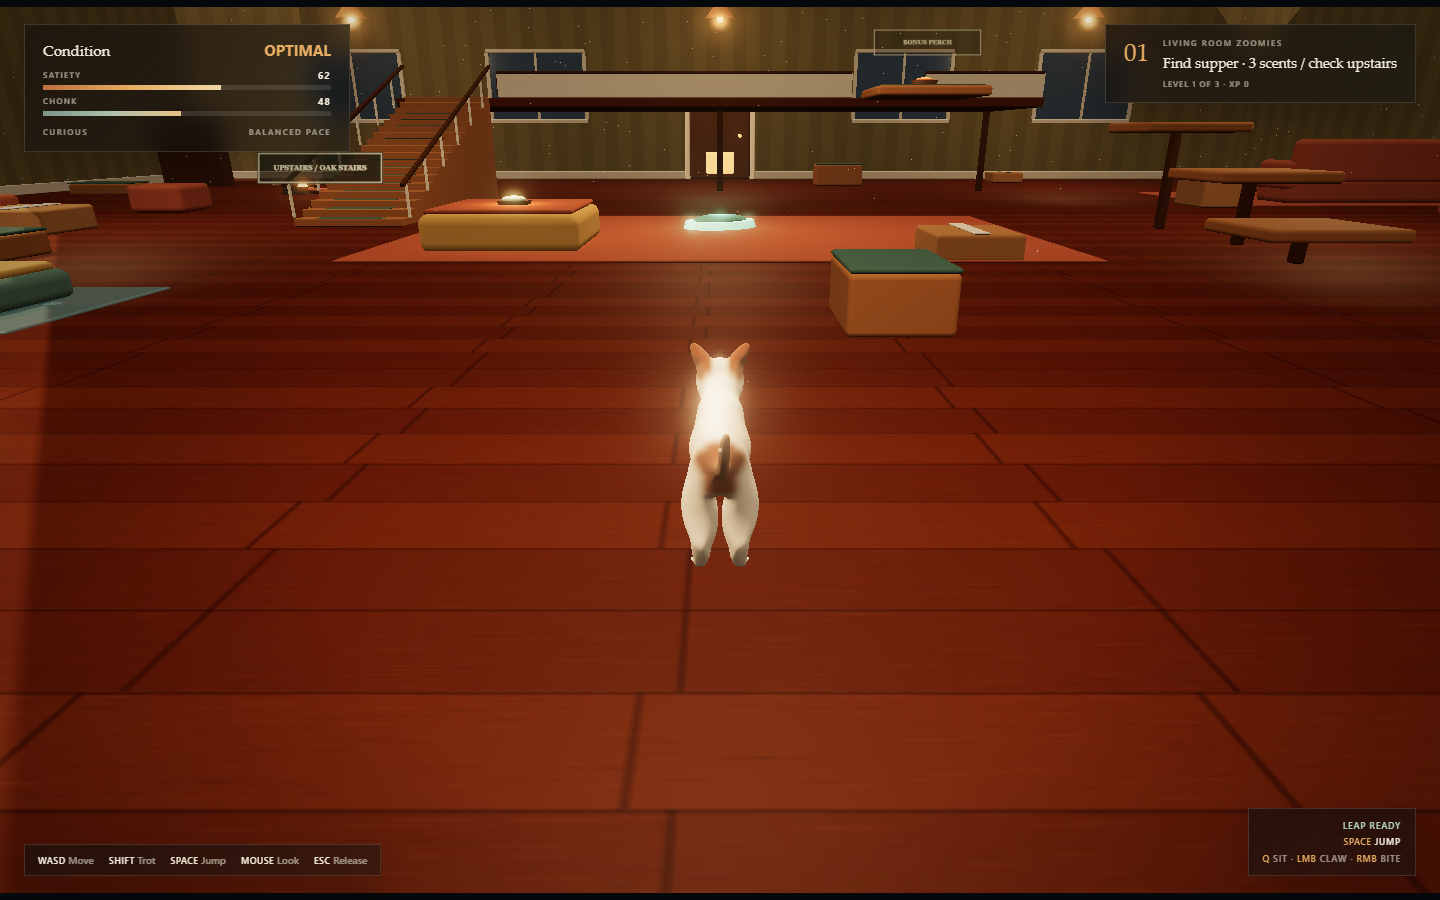
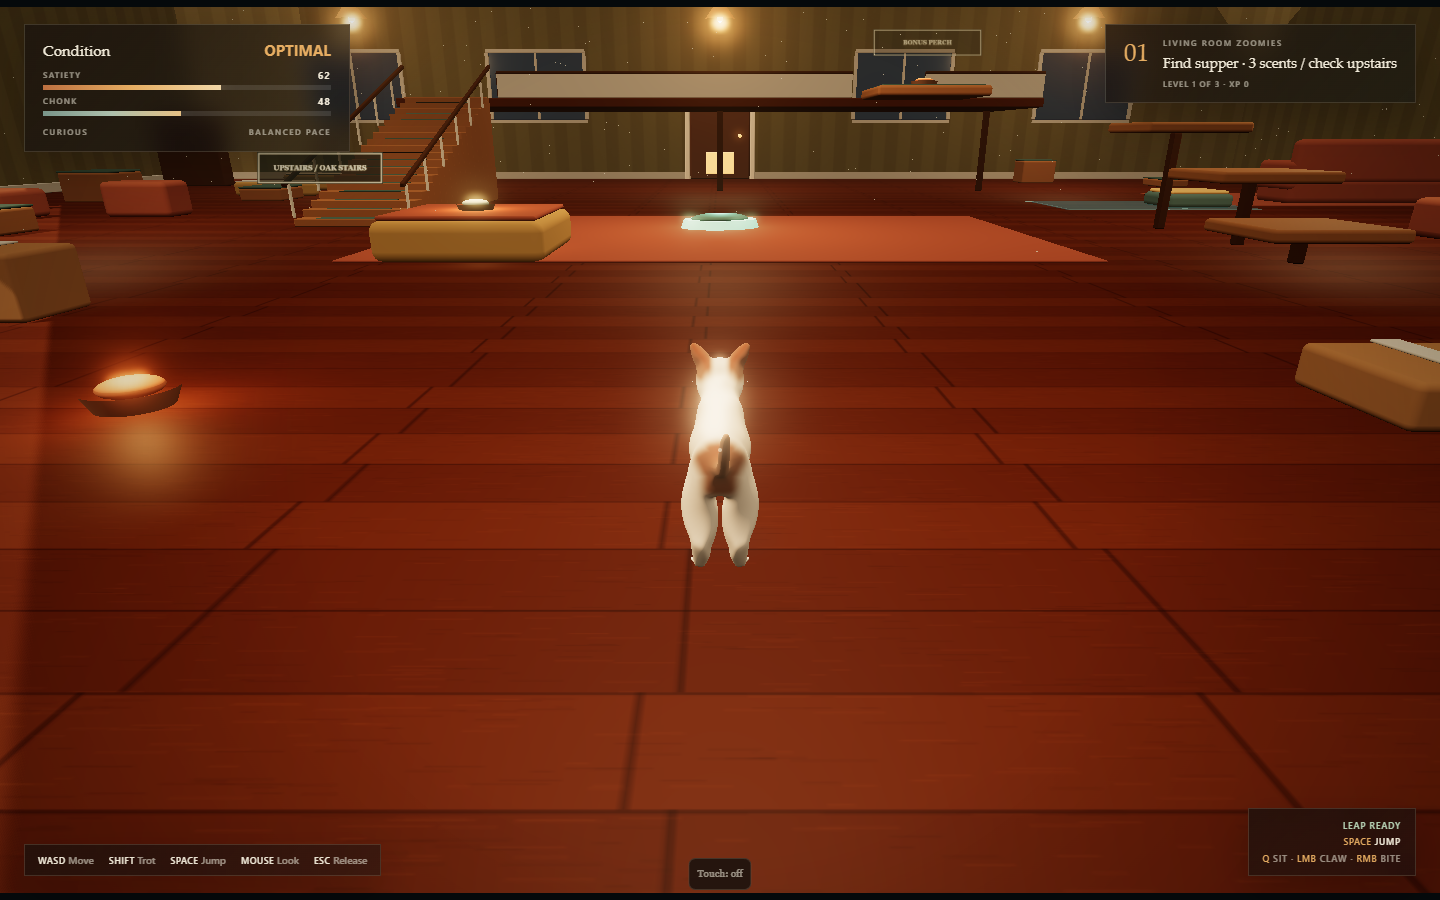
Record verified mobile deployment and live captures

diff --git a/MEMORY.md b/MEMORY.md
@@ -11,7 +11,7 @@ deployment status feed.
 - HUD/boot layouts now fit portrait and landscape phones, pointer lock is not needed on touch, and rendering pixel ratio is capped at 1.25 on touch/coarse-pointer devices. The cat asset and gameplay condition/jump rules were not replaced or simplified.
 - Mobile emulation, desktop smoke/camera, vertical challenges, full autoplay seed `424242`, and local Pages packaging were checked. Details and physical-device follow-up: [mobile verification](docs/mobile-controls-verification.md).
 - Full autoplay after shared-input integration completed with 12 meals, 600 XP, seven jumps, zero bumps, about 2m 32s. It used keyboard navigation, not touch-only autoplay. Isolated mobile tests verify touch actions and common physics separately.
-- The user authorized committing and pushing the entire mobile contribution on 2026-10-16. Release is in progress: verify the Pages deployment and live mobile/package tests before recording it as released. Physical Android/iPhone Safari checks remain outstanding; do not claim hardware performance from emulation.
+- Released the entire mobile contribution as `39d9265` on 2026-10-16 after the user authorized the push. The Pages workflow succeeded, the live manifest matched that revision, and hosted mobile, camera, and Pages tests all passed without browser errors. This handoff update adds the release evidence and refreshed live captures, not runtime changes. Physical Android/iPhone Safari checks remain outstanding; do not claim hardware performance from emulation.
 - The previous mouse-spike/collision-recovery fix is `cecfb02` and was tested locally/live. Artist instructions were subsequently checked in as `a7a626d`; the active model/pipeline remains unchanged.
 - Multiplayer and extra coat variants are still deferred, not approved next tasks. Wait for user feedback or a new request rather than implementing them automatically.
 
@@ -72,6 +72,7 @@ fully random building generator. Floors and collision bounds are world-space.
 | `ef96e40` | Check-in of older experimental assets/tools; active gameplay remains the above version |
 | `ee37670` | Repository contributor instructions, persistent memory, setup/test/release handoff |
 | `a7a626d` | Artist instructions covering manual/source ownership, rig/material/export constraints, and delivery |
+| `39d9265` | Mobile joystick/look/actions, responsive phone layouts, lifecycle cleanup, automated touch verification; deployed and tested live |
 
 Mouse regression details: old code directly applied every `movementX/Y` event;
 an oversized sample rotated yaw by -28.2 radians. A small furniture-corner orbit
@@ -122,7 +123,7 @@ those are not the current runtime specification.
 - `python tools/build_pages.py` follows actual module imports and packages only runtime assets/licenses into ignored `dist/`, with revision/hash metadata.
 - Do not upload the whole repo as the website: Blender/FBX/STL, experiments, sprite sheets, and test captures are not required at runtime.
 - CI checks module syntax and builds/deploys; it does not run the Playwright regression suite. Confirm the workflow and live build manifest when verifying a release.
-- The last live revision personally tested in the preceding session was `cecfb02`. Do not assume that is the current live revision after subsequent pushes.
+- Runtime revision `39d9265cb67a4a3453ee00f544b922a523910f09` was tested live on 2026-10-16. [Pages workflow 38854321559](https://github.com/desmondttm123/MegaChonk/actions/runs/38854321559) succeeded; the served manifest matched. Hosted mobile, camera, and Pages suites passed. Later evidence-only commits do not change that tested runtime; inspect the current manifest/history for the latest deployed commit.
 - The latest local build after adding touch controls contains 27 runtime files, approximately 12.47 MB; no model regeneration was needed. CI also checks the new touch module's syntax.
 
 ## Deferred Or Limited
@@ -131,7 +132,7 @@ those are not the current runtime specification.
 - Tuxedo, calico, and orange-tabby options were requested earlier, then superseded by using only the Turkish Van to save resources. No coat selector is currently shipped.
 - Phone controls are implemented and tested with browser-dispatched multi-touch in Windows Edge/Chromium emulation. Actual Android/iOS hardware and Safari behavior/performance still require manual verification; desktop browser test launchers still assume Windows Edge.
 - The game remains a stylized prototype, not production AAA quality. Continue improving anatomy/animation and environment quality only against a concrete request.
-- The mobile contribution's release is authorized; no further feature or bug implementation is currently approved. After deployment verification, physical-phone feedback is the next handoff consideration.
+- The mobile contribution is released; no further feature or bug implementation is currently approved. Physical-phone feedback is the next handoff consideration.
 
 ## Updating This Handoff
 

diff --git a/docs/mobile-controls-verification.md b/docs/mobile-controls-verification.md
@@ -62,6 +62,18 @@ well as checking element bounds in the automated suite.
 
 ## Release Status
 
-The user authorized committing and pushing all pending changes on 2026-10-16.
-Deployment and live mobile/package verification are in progress; their exact
-revision and results will be recorded after the Pages workflow succeeds.
+Released on 2026-10-16 as `39d9265cb67a4a3453ee00f544b922a523910f09` after
+the user authorized committing and pushing all pending changes.
+[Pages workflow 38854321559](https://github.com/desmondttm123/MegaChonk/actions/runs/38854321559)
+succeeded, and the public `build-manifest.json` reported the same revision.
+
+All three suites passed against https://desmondttm123.github.io/MegaChonk/:
+
+- `tools/mobile-controls-test.js`: all four phone layouts, three simultaneous touches, zero pointer-lock requests, desktop mode switching, no browser errors. Settled walk/trot speeds were approximately 3.10/4.84; the camera test swipe changed yaw by -0.336 radians.
+- `tools/camera-controls-test.js`: native mouse input, spike rejection, focus recovery, three capture cycles, 30/60/144 FPS consistency, and furniture-corner recovery; no browser errors.
[1 lines of base64/hex data omitted]
+
+Live portrait, landscape, and desktop captures were visually reviewed and saved
+under `assets/previews/`. The follow-up evidence commit updates only these
+captures and handoff notes, not the tested runtime. Physical-phone checks above
+remain outstanding.
